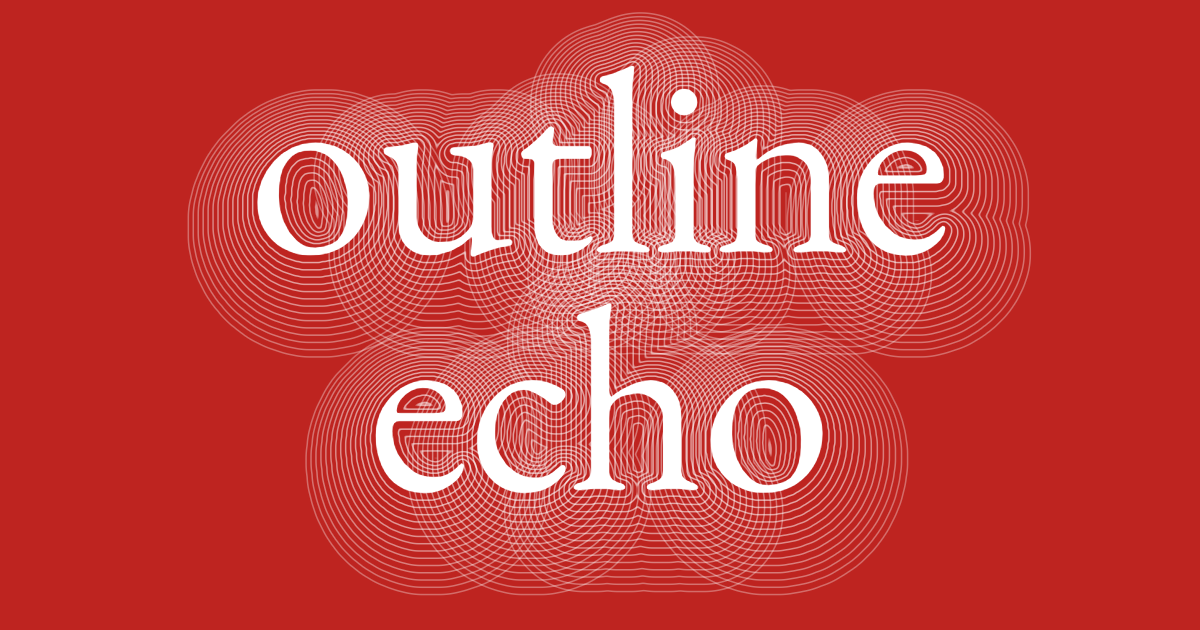
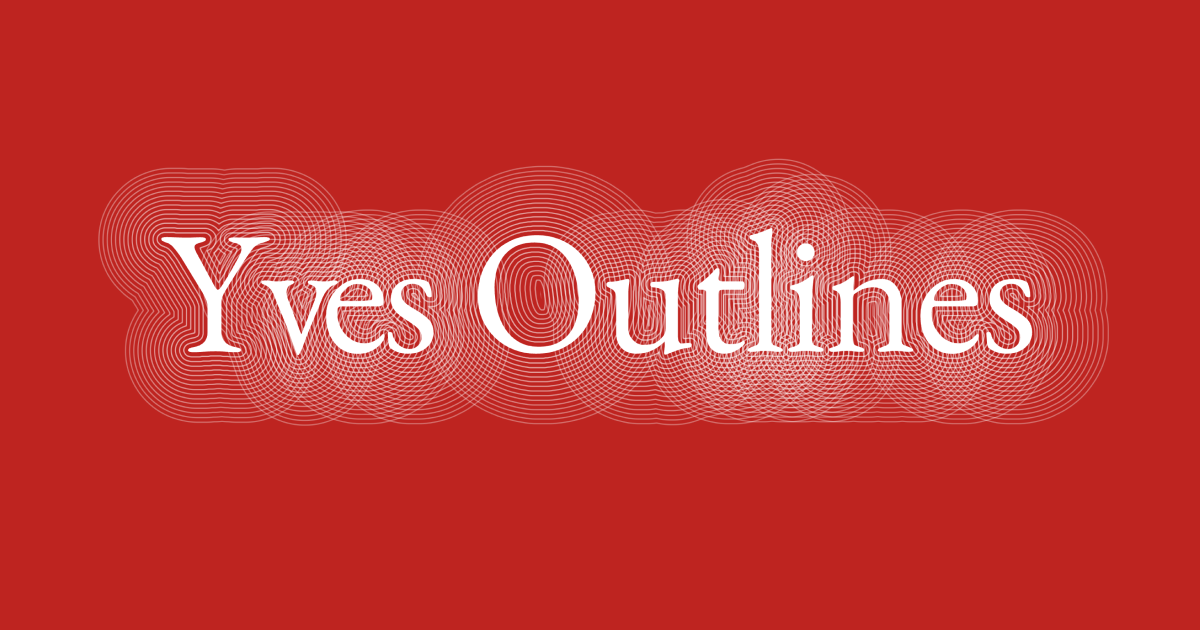
edit

diff --git a/outline-echo.html b/outline-echo.html
@@ -3,12 +3,12 @@
 <head>
 <meta charset="utf-8">
 <meta name="viewport" content="width=device-width, initial-scale=1, viewport-fit=cover">
-<title>Outline echo</title>
+<title>Yves Outlines: Ripple type poster generator</title>
 <meta name="description" content="Grow concentric offset outlines around type and export posters as PNG.">
 <!-- Open Graph / link previews. Scrapers need absolute URLs; og-image.png sits next to this file. -->
 <meta property="og:type" content="website">
-<meta property="og:site_name" content="Outline echo">
-<meta property="og:title" content="Outline echo">
+<meta property="og:site_name" content="Yves Outlines">
+<meta property="og:title" content="Yves Outlines">
 <meta property="og:description" content="Grow concentric offset outlines around type. Pick a typeface, set a solid or gradient ground, and export posters as PNG.">
 <meta property="og:url" content="https://cewillis.com/outline-echo.html">
 <meta property="og:image" content="https://cewillis.com/og-image.png">
@@ -17,7 +17,7 @@
 <meta property="og:image:height" content="630">
 <meta property="og:image:alt" content="The words outline echo in white serif type, wrapped in dozens of thin concentric outlines on a red ground.">
 <meta name="twitter:card" content="summary_large_image">
-<meta name="twitter:title" content="Outline echo">
+<meta name="twitter:title" content="Yves Outlines">
 <meta name="twitter:description" content="Grow concentric offset outlines around type and export posters as PNG.">
 <meta name="twitter:image" content="https://cewillis.com/og-image.png">
 <meta name="twitter:image:alt" content="The words outline echo in white serif type, wrapped in dozens of thin concentric outlines on a red ground.">
@@ -143,13 +143,13 @@ input[type=color]{width:100%;height:30px;border:1px solid var(--rule);border-rad
 
 <aside class="panel">
   <div class="head">
-    <h1>Outline echo</h1>
-    <p>Concentric offset outlines grown from each letterform.</p>
+    <h1>Yves Outlines</h1>
+    <p>Concentric outlines grow from each letterform or word.</p>
     <div class="actions">
       <button class="btn primary" id="play" aria-pressed="false">Play</button>
-      <button class="btn" id="shuffle">Shuffle</button>
+      <button class="btn" id="shuffle">🎲 Shuffle</button>
       <button class="btn" id="reset">Reset</button>
-      <button class="btn" id="copyLink" hidden>Copy link</button>
+      <button class="btn" id="copyLink" hidden>🔗 Copy link</button>
       <button class="btn" id="save" hidden>Save PNG</button>
     </div>
   </div>
@@ -185,7 +185,7 @@ input[type=color]{width:100%;height:30px;border:1px solid var(--rule);border-rad
     <div class="row">
       <div class="lab"><span>Alignment</span></div>
       <div class="seg" data-key="align">
-        <button data-v="left">Left</button><button data-v="center">Centre</button><button data-v="right">Right</button>
+        <button data-v="left">Left</button><button data-v="center">Center</button><button data-v="right">Right</button>
       </div>
     </div>
     <div class="row">

diff --git a/index.html b/index.html
@@ -657,8 +657,8 @@
           <img src="assets/outline-echo-teaser.png" alt="The words stop whining and take in white serif type, wrapped in dozens of thin concentric outlines on a red ground" loading="lazy" width="1916" height="790" />
         </picture>
         <figcaption>
-          <span class="title">Yves Outlines, generate posters with type that ripples</span>
-          <span class="blurb">Inspired by Yves B&eacute;har's type treatment on <a href="https://designmanifestos.org/yves-behar/">Design Manifestos</a> from ICON magazine (Issue 50, August 2007). Tiny app grows thin concentric outlines around any letters and words, like rings spreading from a stone dropped in water. Choose a typeface, adjust the rings and the background color, and export your own manifesto as a png.</span>
+          <span class="title">Yves Outlines. Generate posters with type that ripples</span>
+          <span class="blurb">Inspired by Yves B&eacute;har's type treatment on Design Manifestos (from ICON magazine, Issue 50, August 2007). Tiny app grows thin concentric outlines around any letters and words, like rings spreading from a stone dropped in water. Choose a typeface, adjust the rings and the background color, and export your own manifesto as a png.</span>
         </figcaption>
       </figure>
     </a>
